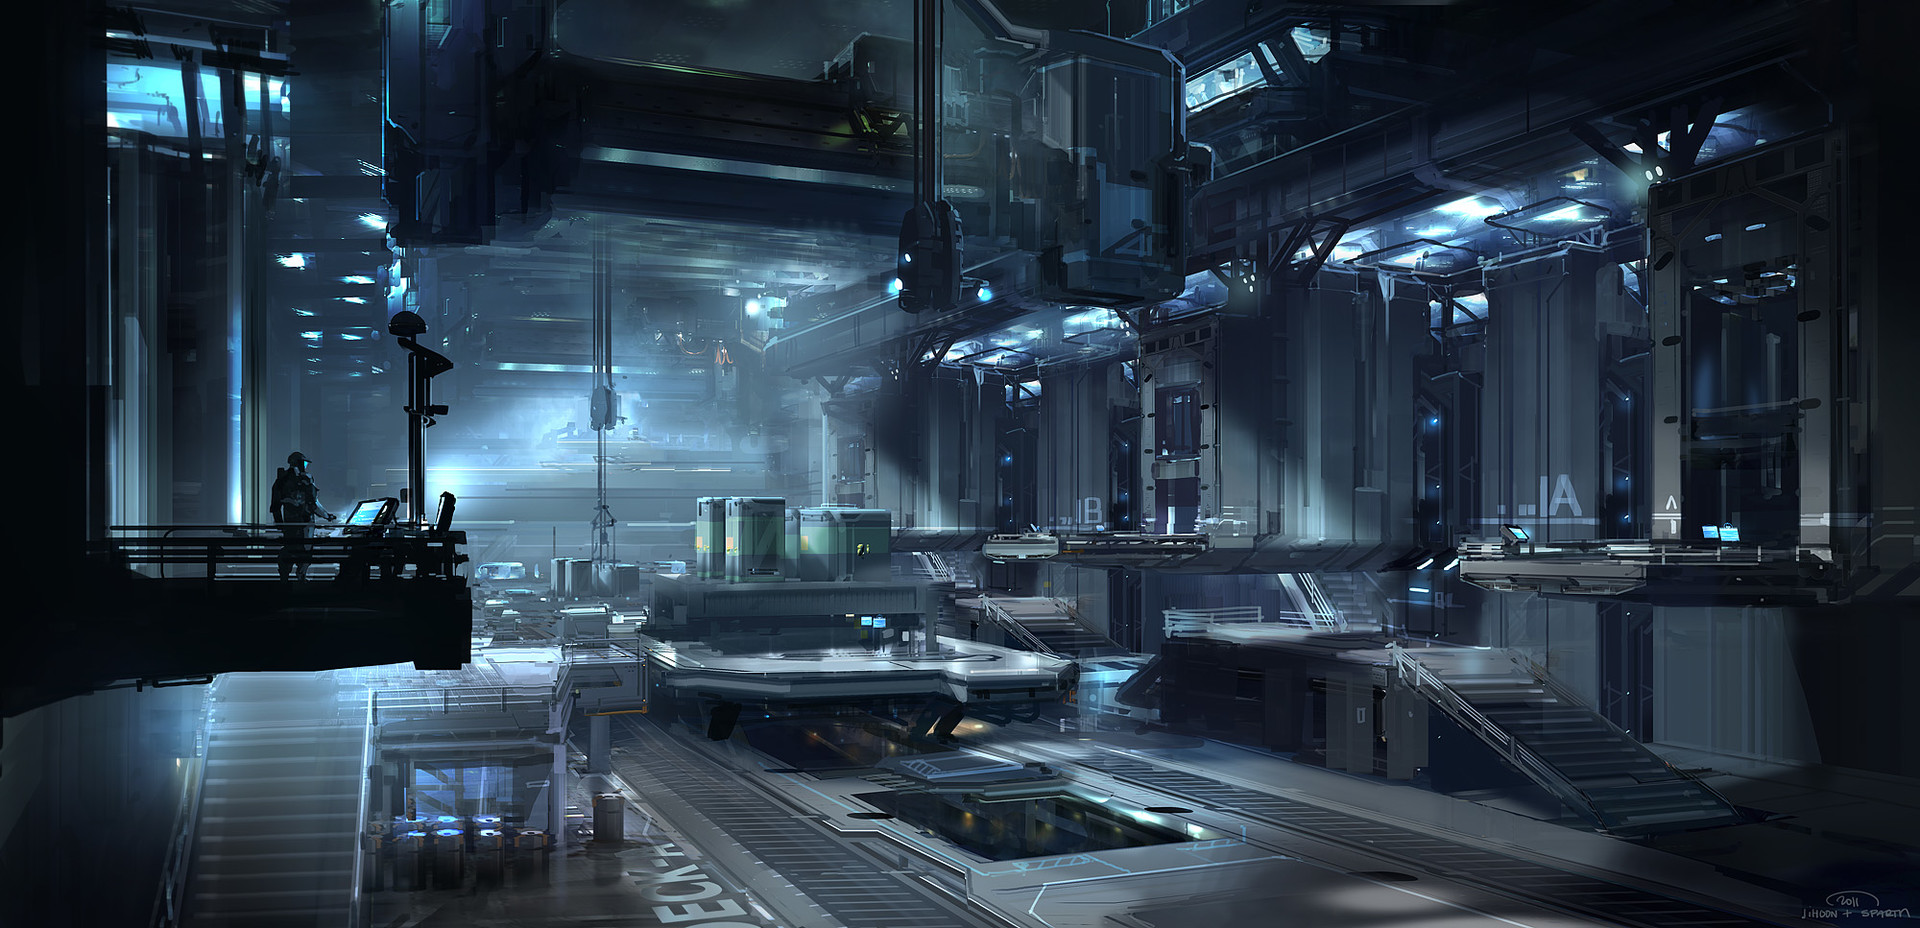
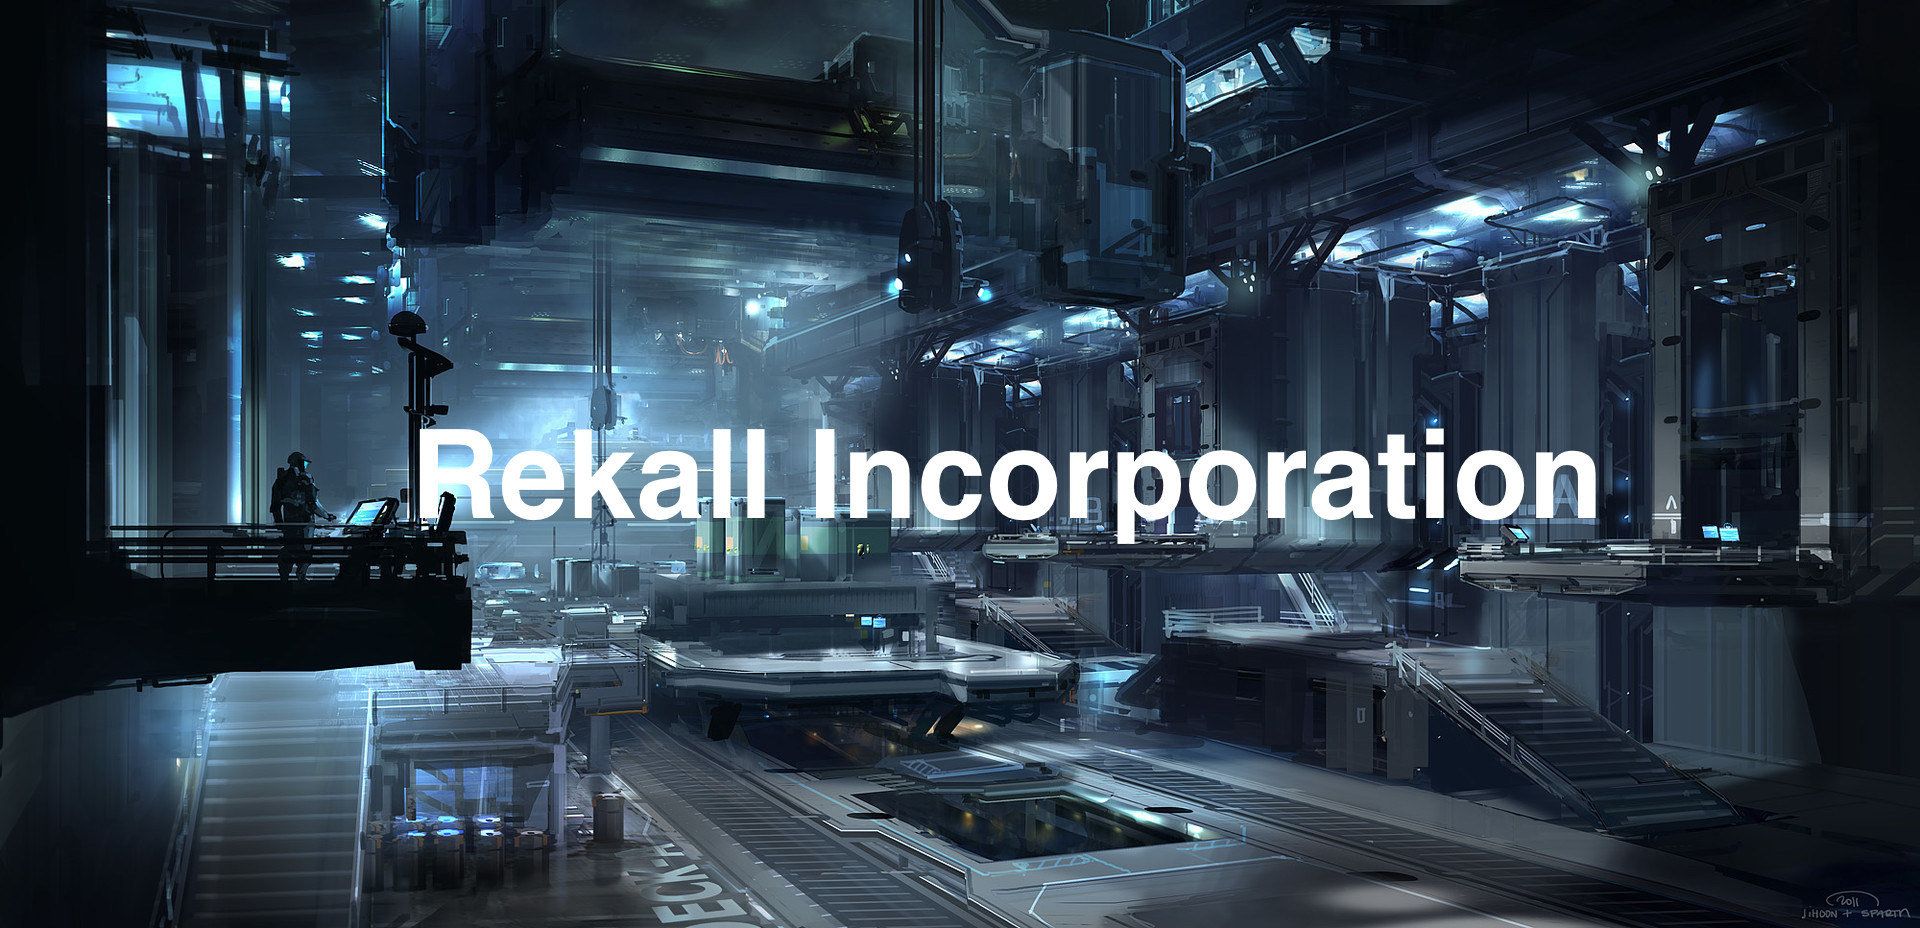
Add files via upload

Changed region(s): [[0.2188, 0.4375, 0.8438, 0.5938]]

diff --git a/myFunSite.html b/myFunSite.html
@@ -12,10 +12,11 @@
 		<!-- Header -->
 			<header id="header" class="alt">
 				<div class="logo"><a href="https://jen0211-1729484.github.io/myFunSite.html">Rekall Incorporation</a></div>
+				<font color: "black"></font>
 			</header>
 
 		<!-- Nav -->
-		<br><br>
+		<br><br><br>
 		<a href="myFunSite.html"><button> Home </button></a>
 		<a href="generic.html"><button>Waiver and Participant Agreement</button></a>
 		<a href="elements.html"><button>About Rikall Incorporation</button></a>
